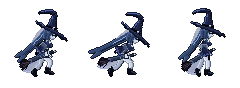
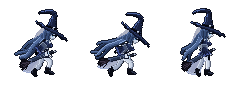
에스카 뒷머리를 흐르는 가닥으로, 달리기 속도감 강화 (기획서 0.29)
Claude-Session: https://claude.ai/code/session_014QTsqSnFBNjsgiSz2QVxpP

diff --git a/tools/eska_anim.py b/tools/eska_anim.py
@@ -18,11 +18,11 @@ def lerp(a, b, t):
 
 
 # ---------------------------------------------------------------- 달리기 (8프레임, 질주)
-# 상체를 22° 숙이고 낮게. 다리 역할: 앞다리 F0 착지 → F1 체중 실음(가장 낮음) → F2 밀어냄 → F3 발끝으로 차고 나감(뒤로 길게)
+# 상체를 26° 숙이고 낮게. 다리 역할: 앞다리 F0 착지 → F1 체중 실음(가장 낮음) → F2 밀어냄 → F3 발끝으로 차고 나감(뒤로 길게)
 # / 뒷다리 B0 발꿈치를 차올림 → B1 엉덩이까지 접음 → B2 무릎을 높이 듦 → B3 앞으로 뻗음
-F = [((5.5, 7.5), (5.0, 16.5), -10), ((5.5, 7.0), (1.0, 15.5), 5), ((2.0, 8.8), (-3.5, 16.5), 25), ((-2.5, 8.8), (-10.0, 14.0), 60)]
-B = [((-3.0, 8.5), (-11.0, 9.0), 85), ((1.0, 8.5), (-7.0, 6.5), 90), ((8.0, 4.0), (2.0, 10.0), 45), ((8.5, 4.5), (11.0, 12.5), -5)]
-BOB = [2, 3, 2, 1]
+F = [((6.0, 7.5), (7.0, 16.2), -12), ((5.5, 7.0), (1.0, 15.5), 5), ((2.0, 8.8), (-4.0, 16.3), 25), ((-3.0, 8.6), (-11.5, 13.0), 65)]
+B = [((-3.5, 8.3), (-12.0, 8.0), 88), ((1.0, 8.5), (-7.0, 6.0), 92), ((8.5, 3.5), (3.0, 9.5), 45), ((8.5, 4.3), (12.0, 12.0), -8)]
+BOB = [3, 4, 3, 2]
 # 팔: 팔꿈치를 굽혀 크게 흔듦 (가까운 다리가 앞에 닿을 때 가까운 팔은 뒤로)
 ARM = [((-6.0, 4.0), (-5.5, 10.5)), ((-4.0, 6.0), (-1.5, 11.5)), ((-1.0, 7.0), (3.0, 11.0)), ((2.0, 6.5), (6.5, 8.0)),
        ((3.5, 5.5), (7.5, 2.5)), ((2.0, 6.5), (6.5, 8.0)), ((-1.0, 7.0), (3.0, 11.0)), ((-4.0, 6.0), (-1.5, 11.5))]
@@ -37,9 +37,9 @@ def run_frames():
         near, far = (F[ph], B[ph]) if i < 4 else (B[ph], F[ph])
         elbow, wrist = ARM[i]
         fr.append(S.pose(
-            by=BOB[ph], lean_deg=22 + (1 if ph == 1 else 0), near=near, far=far, elbow=elbow, wrist=wrist,
-            hair=(-7 + w, -4, -15 + 2 * w, -11 + 1.5 * w2), skirt=(0.5, -0.8 + 0.5 * w2, -3, -2.5 - 0.8 * w),
-            over=(-13 + 2 * w, -8 + 1.5 * w2), veil=(-8 + w, -3 + w2), sword=18 + 5 * w2, fringe=-4, drip=False))
+            by=BOB[ph], lean_deg=26 + (1 if ph == 1 else 0), near=near, far=far, elbow=elbow, wrist=wrist,
+            hair=(-8 + w, -6, -17 + 2 * w, -14 + 1.5 * w2), skirt=(0.5, -1.0 + 0.5 * w2, -3.5, -3 - 0.8 * w),
+            over=(-15 + 2 * w, -10 + 1.5 * w2), veil=(-10 + w, -5 + w2), sword=20 + 5 * w2, fringe=-5, drip=False))
     return fr
 
 
@@ -90,6 +90,19 @@ DASH = {
                   veil=(-3, -1), sword=8, fringe=-2),
 }
 
+WAVE_AMP = {"idle": 0.8, "run": 2.6, "jump": 1.4, "double_jump": 1.8, "dash": 2.8}
+
+
+def with_wave(name, frames):
+    """머리 물결: 동작별 진폭, 프레임마다 위상이 π/2씩 흘러 4프레임에 물결 하나가 지나간다."""
+    out = []
+    for i, f in enumerate(frames):
+        q = dict(f)
+        q.setdefault("hwave", (WAVE_AMP[name], i * math.pi / 2))
+        out.append(q)
+    return out
+
+
 ANIMS = {
     "idle": [S.IDLE],
     "run": run_frames(),
@@ -97,6 +110,7 @@ ANIMS = {
     "double_jump": [DJUMP[k] for k in ("dj_tuck", "dj_kick", "dj_burst")],
     "dash": [DASH[k] for k in ("dash_start", "dash", "dash_end")],
 }
+ANIMS = {k: with_wave(k, v) for k, v in ANIMS.items()}
 
 
 def frames_of(name):
@@ -130,6 +144,21 @@ def magic_circle(rx, ry, alpha, runes=True, sparks=0):
     for k in range(sparks):  # 위로 튀는 빛 알갱이
         t = k * 2.39
         put(cx + math.cos(t) * rx * 0.8, cy - 2 - (k % 3) * 2, ICE if k % 2 else LAV, int(230 * alpha))
+    return im
+
+
+def speed_lines(i, w, h):
+    """몸 뒤로 빠르게 지나가는 가는 빛줄기 (게임에서는 효과 층)."""
+    im = Image.new("RGBA", (w, h), (0, 0, 0, 0))
+    P = im.load()
+    for j in range(7):
+        y = 30 + (j * 13 + 7) % 60
+        ln = 6 + (j * 5) % 9
+        x0 = (w - ((i * 22 + j * 37) % (w + 40))) + 10
+        for x in range(x0, x0 + ln):
+            if 0 <= x < w and 0 <= y < h:
+                a = int(110 * (1 - (x - x0) / ln))
+                P[x, y] = (150, 175, 220, a)
     return im
 
 
@@ -200,8 +229,9 @@ def build_gifs():
             k = (i - c) % 8
             if k < 3:
                 fx.append((dust[k], 20 + S.OX + 22 - 8 - 4 * k, gy - 9))
+        fx.append((speed_lines(i, S.W + 40, S.H + top + 8), 0, 0))
         seq.append((f, 20, top, fx))
-    compose("run", seq, (S.W + 40, S.H + top + 8), 65, gy, scroll=9)
+    compose("run", seq, (S.W + 40, S.H + top + 8), 40, gy, scroll=14)
     # 점프
     J = [("takeoff", 0), ("rise_a", -10), ("rise_b", -18), ("rise_a", -24), ("apex", -27), ("apex", -28), ("fall_a", -26),
          ("fall_b", -20), ("fall_a", -12), ("fall_b", -3), ("land", 0), ("land", 0), ("idle", 0), ("idle", 0)]

diff --git a/tools/eska_sprite.py b/tools/eska_sprite.py
@@ -364,32 +364,57 @@ def overskirt(p):
 
 
 def hair(p):
-    # 뒷머리: 머리 뒤에서 등을 따라 내려와 끝은 갈래로 나뉜다. p["hair"] = (중간점 dx, dy, 끝점 dx, dy)
+    """뒷머리: 한 덩어리가 아니라 여러 가닥. 기본 곡선(뿌리→끝)을 따라 가닥마다 퍼짐·길이가 다르고,
+    물결이 뿌리에서 끝으로 시간차를 두고 흘러간다 (끝으로 갈수록 크게 출렁임).
+    p["hair"] = (중간점 dx, dy, 끝점 dx, dy), p["hwave"] = (진폭 px, 위상 rad)."""
     d = p["hair"]
-    p0 = ub(16.5, 22)
+    amp, phase = p.get("hwave", (0.6, 0.0))
+    root = ub(16.8, 23.5)
     p1 = add(ub(16.0, 42), (d[0], d[1]))
     p2 = (8.5 + d[2], 56 + d[3])
-    pts = bezier(p0, p1, p2)
-    cut = int(len(pts) * 0.82)
-    cells = tube(pts[:cut + 1], lambda t: 5.0 - 1.2 * t)
-    end = pts[cut]
-    dirx, diry = pts[-1][0] - end[0], pts[-1][1] - end[1]
-    nl = math.hypot(dirx, diry) or 1
-    nx, ny = -diry / nl, dirx / nl
-    for s in (-1.3, 1.3):  # 두 갈래 끝
-        a = add(end, (nx * s, ny * s))
-        b = add(pts[-1], (nx * s * 2.2 + dirx * 0.25, ny * s * 2.2 + diry * 0.25))
-        cells.update(tube([a, b], lambda t: 2.4 * (1 - t) + 0.6))
-    paint(cells, "hair", left="hair_l")
-    # 결: 이어진 어두운 가닥 2줄(중간에 한 번 끊김) + 몸 쪽 그늘 + 어깨 뒤 역광
-    for i in range(1, cut):
-        (x0, y0), (x1, y1) = pts[i], pts[i + 1]
-        if i != cut // 2:
-            line(x0 - 0.4, y0, x1 - 0.4, y1, "hair_d")
-        line(x0 + 1.6, y0, x1 + 1.6, y1, "hair_dd")
-    for i in range(1, max(2, cut // 2)):
-        (x0, y0), (x1, y1) = pts[i], pts[i + 1]
-        line(x0 - 2.0, y0, x1 - 2.0, y1, "hair_h")
+    base = bezier(root, p1, p2, 24)
+    # 기본 곡선의 길이 비율과 법선
+    segs = [math.dist(base[i], base[i + 1]) for i in range(len(base) - 1)]
+    tot = sum(segs)
+    acc = [0.0]
+    for L in segs:
+        acc.append(acc[-1] + L)
+
+    def at(u):
+        """길이 비율 u의 점과 단위 법선 (곡선 왼쪽 = 뒤/위쪽)."""
+        u = max(0.0, min(1.0, u)) * tot
+        i = max(0, min(len(segs) - 1, next((k for k in range(len(segs)) if acc[k + 1] >= u), len(segs) - 1)))
+        f = (u - acc[i]) / (segs[i] or 1)
+        x = base[i][0] + (base[i + 1][0] - base[i][0]) * f
+        y = base[i][1] + (base[i + 1][1] - base[i][1]) * f
+        tx, ty = base[i + 1][0] - base[i][0], base[i + 1][1] - base[i][1]
+        tl = math.hypot(tx, ty) or 1
+        return (x, y), (ty / tl, -tx / tl)
+    # 가닥: (퍼짐 위치, 길이, 뿌리 폭, 위상 차, 색, 테두리색) — 뒤 가닥부터 그린다
+    STRANDS = [
+        (-2.6, 0.90, 2.0, 0.9, "hair_d", "hair"),
+        (2.2, 0.96, 2.0, 0.3, "hair_d", "hair"),
+        (-1.0, 1.00, 2.4, 0.0, "hair", "hair_l"),
+        (1.0, 0.86, 2.2, 1.6, "hair", "hair_l"),
+        (-3.6, 0.78, 1.6, 2.3, "hair", "hair_l"),
+        (0.0, 0.94, 1.8, 1.1, "hair_l", "hair_h"),
+    ]
+    for (off, ln, w0, dph, col, rim) in STRANDS:
+        pts = []
+        n = 18
+        for k in range(n + 1):
+            u = k / n * ln
+            (x, y), (nx, ny) = at(u)
+            spread = off * (0.3 + 1.6 * u)                       # 끝으로 갈수록 가닥이 벌어짐
+            wave = amp * (u ** 1.2) * math.sin(phase - 2 * math.pi * 1.25 * u + dph)  # 뿌리→끝으로 흐르는 물결
+            pts.append((x + nx * (spread + wave), y + ny * (spread + wave)))
+        cells = tube(pts, lambda t, w0=w0: max(0.8, w0 * (1 - t) ** 0.9 + 0.5))
+        paint(cells, col, top=rim)
+    # 머리 뒤 뿌리 덩어리 (가닥들이 시작되는 곳을 메움) + 어깨 뒤 윤기
+    root_cells = tube([root, at(0.18)[0]], lambda t: 5.0 - 1.4 * t)
+    paint(root_cells, "hair", left="hair_l")
+    (hx_, hy_), (nx, ny) = at(0.12)
+    line(hx_ + nx * 1.6, hy_ + ny * 1.6, *[v + q * 1.6 for v, q in zip(at(0.3)[0], at(0.3)[1])], "hair_h")
 
 
 def leg(hip, rel_knee, rel_ankle, foot_deg, far):

diff --git a/docs/gdd/10-art-direction.md b/docs/gdd/10-art-direction.md
@@ -51,9 +51,9 @@
 - 이미지 생성 프롬프트(디자인 앵커 포함): [`../art/eska-design-prompts.txt`](../art/eska-design-prompts.txt)
 - **디자인 시트 기준안: [`assets/eska-sheet-v3.png`](assets/eska-sheet-v3.png)** — 얀데레풍 외형·빗자루 검까지 반영된 현재 기준
 - 게임 스프라이트 (사이드뷰, 코드로 찍은 도트 — 리그 `tools/eska_sprite.py`, 동작 정의 `tools/eska_anim.py`): 전체 시트 [`../art/eska/sheet.png`](../art/eska/sheet.png) · 이름표 붙은 3배 미리보기 [`../art/eska/sheet_preview.png`](../art/eska/sheet_preview.png) · 움직이는 미리보기 [`run.gif`](../art/eska/run.gif) [`jump.gif`](../art/eska/jump.gif) [`double_jump.gif`](../art/eska/double_jump.gif) [`dash.gif`](../art/eska/dash.gif). [시도 중]
-  - 동작: 대기 1, 달리기 8(질주: 상체 22° 숙임, 보폭 넓게·뒷발꿈치를 엉덩이까지 차올림·무릎 높이, 머리·베일·겉치마가 거의 수평으로 날림, 착지 먼지), 점프 7(이륙·상승 2·정점·하강 2·착지), 이단점프 3(웅크림·마법진 딛기·솟구침, 마법진 효과는 별도 층), 대시 3(시작·돌진·마무리, 잔상은 별도 층). 한 칸 80×88px, 발밑 기준점 칸 좌표 (44, 77).
+  - 동작: 대기 1, 달리기 8(질주: 상체 26° 숙임·몸을 낮춤, 큰 보폭·뒷발꿈치를 엉덩이까지 차올림·무릎 높이, 머리·베일·겉치마가 거의 수평으로 날림, 프레임당 40ms, 착지 먼지·속도선은 효과 층), 점프 7(이륙·상승 2·정점·하강 2·착지), 이단점프 3(웅크림·마법진 딛기·솟구침, 마법진 효과는 별도 층), 대시 3(시작·돌진·마무리, 잔상은 별도 층). 한 칸 80×88px, 발밑 기준점 칸 좌표 (44, 77).
   - 몸 52px(정수리~발바닥), 모자 포함 약 74px. 허리 폭 4px의 가는 체형, 각지게 꺾여 가는 끝이 뒤로 처지는 날카로운 모자, 옆머리로 볼을 가린 작은 얼굴. 뒤에서 오는 차가운 역광, 셀아웃 외곽선.
-  - 리그 구조: 상체·머리·모자는 손으로 찍은 픽셀을 통째로 옮기거나 엉덩이를 축으로 숙이고(RotSprite 방식 회전 — Scale2x 세 번으로 8배 키워 돌린 뒤 줄여 선이 깨지지 않게, 대시 30°), 다리·팔·뒷머리·치마·겉치마·베일·검집은 관절 위치와 휘날림 값으로 프레임마다 계산한다. 상승 땐 머리카락·치마가 아래로 끌리고, 정점부터 바람 없이 떠오르며, 대시 땐 뒤로 길게 날린다.
+  - 리그 구조: 상체·머리·모자는 손으로 찍은 픽셀을 통째로 옮기거나 엉덩이를 축으로 숙이고(RotSprite 방식 회전 — Scale2x 세 번으로 8배 키워 돌린 뒤 줄여 선이 깨지지 않게, 대시 30°), 다리·팔·뒷머리·치마·겉치마·베일·검집은 관절 위치와 휘날림 값으로 프레임마다 계산한다. 뒷머리는 한 덩어리가 아니라 가닥 6개 — 끝으로 갈수록 벌어지고, 물결이 뿌리에서 끝으로 시간차를 두고 흘러 찰랑인다(동작별 진폭, 4프레임에 물결 하나). 상승 땐 머리카락·치마가 아래로 끌리고, 정점부터 바람 없이 떠오르며, 대시 땐 뒤로 길게 날린다.
 - 디자인 시트 2차: [`assets/eska-sheet-v2.webp`](assets/eska-sheet-v2.webp) — 레이피어 시절 (비교용)
 - 디자인 시트 1차 생성본: [`assets/eska-sheet-v1.webp`](assets/eska-sheet-v1.webp) — 신비감 보완 전 (비교용)
 - **무기 형태 기준: [`assets/concept-witch-weapon-draft.png`](assets/concept-witch-weapon-draft.png)** — 검·검집 형태를 따른다 (색·캐릭터 디자인은 위 확정안을 따름)

diff --git a/docs/gdd/19-appendix.md b/docs/gdd/19-appendix.md
@@ -111,3 +111,4 @@
 | 0.26 | 2026-10-25 | 주인공 게임 스프라이트 첫 시안(사이드뷰 대기, 코드 도트) 추가 (10, 19장) | |
 | 0.27 | 2026-10-25 | 주인공 스프라이트를 리그로 재구성하고 달리기·점프·이단점프(마법진)·대시 프레임 추가 (10, 19장) | |
 | 0.28 | 2026-10-25 | 달리기를 상체를 숙인 질주로 변경, 상체 숙임을 회전(RotSprite)으로, 대시 30° (10, 19장) | |
+| 0.29 | 2026-10-25 | 뒷머리를 흐르는 가닥으로, 달리기 속도감 강화(26°, 40ms, 속도선) (10, 19장) | |

diff --git a/docs/gdd/README.md b/docs/gdd/README.md
@@ -1,6 +1,6 @@
 # [가제] 다크판타지 2D 사이드뷰 게임 — 게임 기획서(GDD)
 
-> 문서 버전: 0.28 · 작성 시작: 2026-10-25
+> 문서 버전: 0.29 · 작성 시작: 2026-10-25
 > 이 폴더는 업계 표준 GDD 19개 섹션을 **섹션별 파일**로 나눈 것이다. 섹션 단위로 채우고 수정 이력을 git으로 추적한다.
 
 ## 상태 표기 규칙
